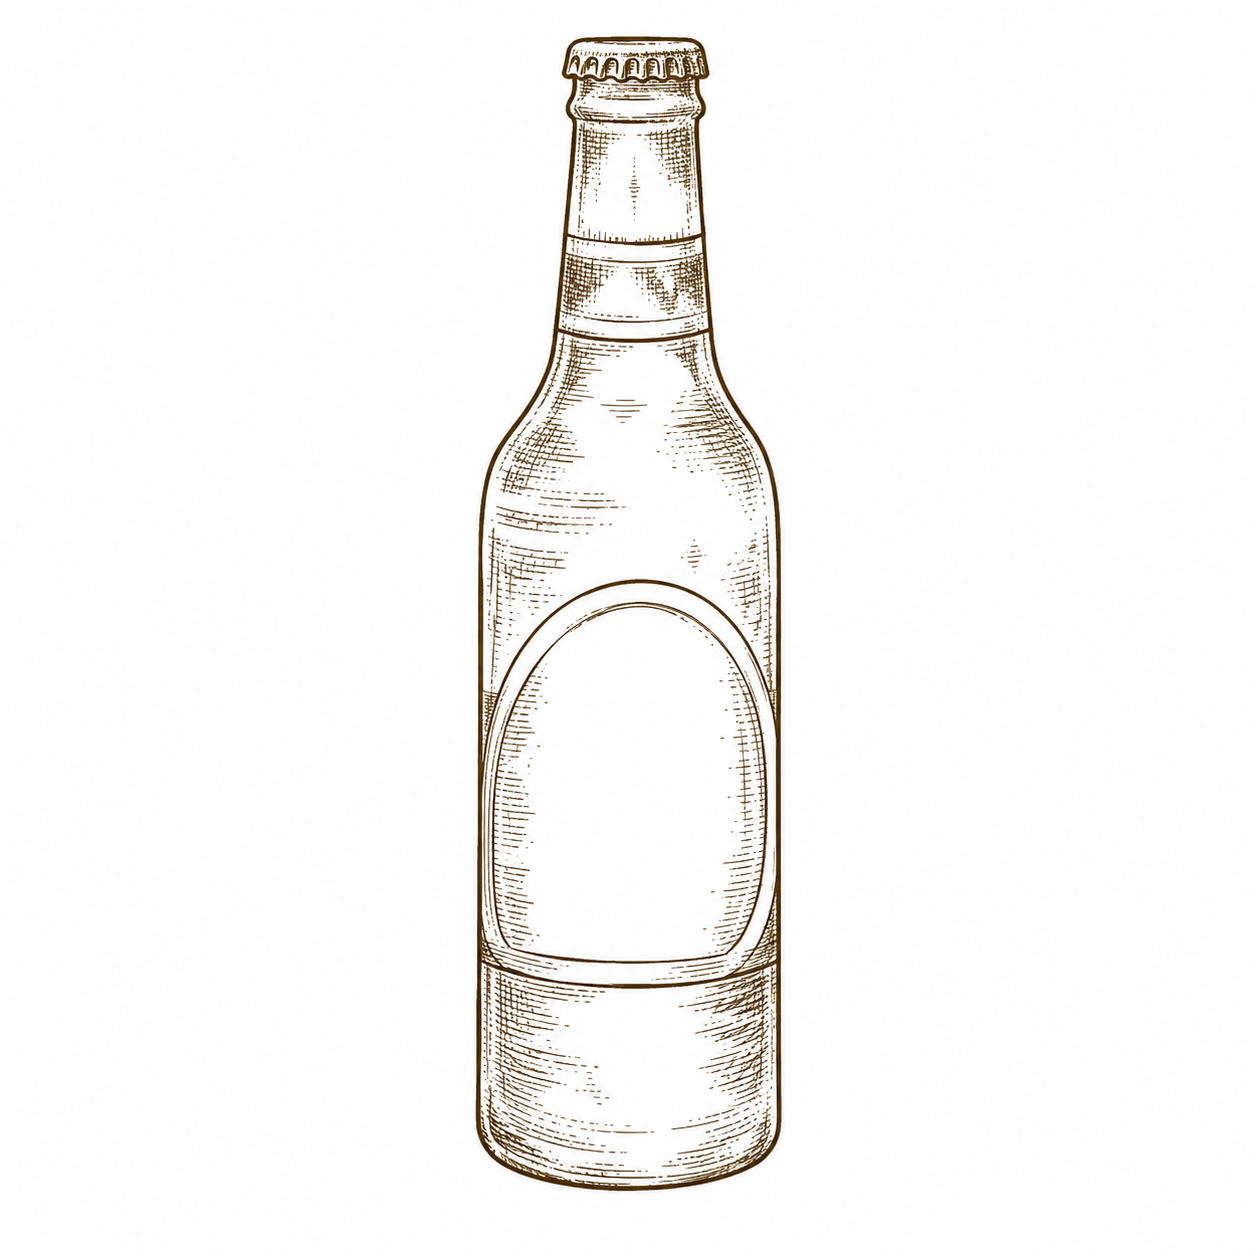
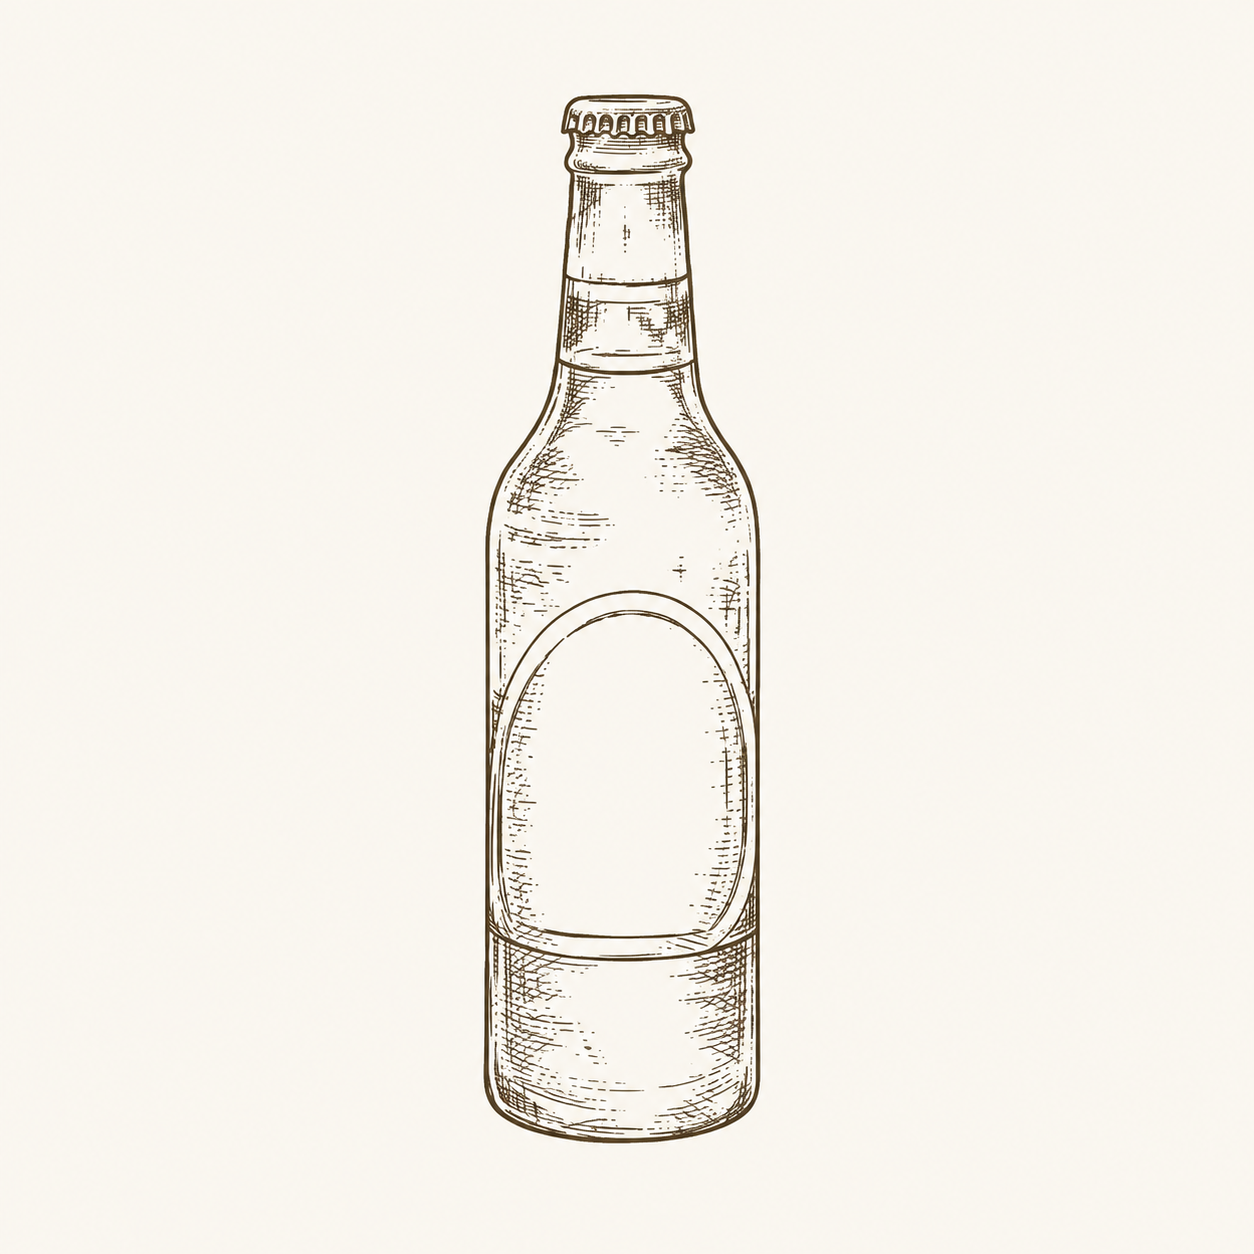
color de fondo de imagenes

Changed region(s): [[0.3732, 0.0311, 0.622, 0.9641]]

diff --git a/styles.css b/styles.css
@@ -1,5 +1,5 @@
 :root{
-  --cream:#FFFFFF;
+  --cream:#FBF8F3;
   --cream-2:#F3ECDF;
   --ink:#4A3826;
   --ink-70:rgba(74,56,38,0.68);
@@ -60,7 +60,37 @@ a{color:inherit; text-decoration:none;}
   height:auto;
   margin:0 auto 0.4rem;
   display:block;
+  position:relative;
+  z-index:2;
   mix-blend-mode:multiply;
+}
+.corner-art{
+  position:absolute;
+  top:-8px;
+  width:150px;
+  height:auto;
+  mix-blend-mode:multiply;
+  pointer-events:none;
+  z-index:1;
+}
+.corner-art.olivo{ left:-24px; }
+.corner-art.tomates{ right:-24px; }
+.tagline{
+  font-family:var(--mono);
+  font-size:0.62rem;
+  letter-spacing:0.22em;
+  text-transform:uppercase;
+  color:var(--olive);
+  margin:0.3rem 0 0;
+  display:flex;
+  align-items:center;
+  justify-content:center;
+  gap:0.5rem;
+}
+.tagline::before, .tagline::after{
+  content:"•";
+  color:var(--brick);
+  font-size:0.55rem;
 }
 .sr-only{
   position:absolute;
@@ -138,55 +168,59 @@ main{
   padding-bottom:45vh;
 }
 .category{
-  padding-top:2.4rem;
+  padding-top:2.8rem;
   scroll-margin-top:1.5rem;
-  border-top:1px solid var(--line);
+  position:relative;
 }
-.category:first-child{ border-top:none; padding-top:0; }
+.category:first-child{ padding-top:0; }
 
-.category-head{
-  margin-bottom:1.6rem;
-}
+/* El texto siempre va por encima del arte de fondo */
+.category-head, .dish, .subgroup-title{ position:relative; z-index:2; }
 
-/* Ilustraciones de fondo: grandes, detrás del contenido, dan ambiente
-   a toda la sección en vez de ser un ícono pegado al título (como en
-   el menú físico original).
-   - position:absolute + inset positivo (nunca negativo) => la imagen
-     siempre queda completamente dentro del área de la sección, nunca
-     se recorta.
-   - mix-blend-mode:multiply => el blanco de fondo de la imagen se
-     funde con el fondo de la página, sin recuadro ni cambio de color
-     visible entre ambos. */
-.category{ position:relative; }
-.category-head, .dish, .subgroup-title{ position:relative; z-index:1; }
-
+/* Ilustraciones de fondo temáticas: dan ambiente a la sección y llenan
+   el aire que queda al final de la lista de platillos, en vez de dejar
+   un vacío. Nunca se recortan (siempre caben dentro de la sección) y
+   el blanco de su fondo se funde con la página gracias a multiply. */
 .bg-art{
   position:absolute;
-  z-index:0;
-  opacity:0.85;
+  z-index:1;
+  opacity:0.9;
   mix-blend-mode:multiply;
   pointer-events:none;
   height:auto;
 }
 .bg-art.pizza-bg{
-  width:min(300px, 34%);
-  right:1rem;
-  bottom:1rem;
+  width:min(260px, 36%);
+  right:0.5rem;
+  bottom:0.5rem;
 }
 .bg-art.bottle-bg{
-  width:min(190px, 24%);
-  right:1rem;
-  top:1.5rem;
+  width:min(170px, 24%);
+  right:0.5rem;
+  top:0.5rem;
 }
 .bg-art.glasses-bg{
-  width:min(210px, 26%);
-  right:1rem;
-  bottom:1rem;
+  width:min(190px, 27%);
+  right:0.5rem;
+  bottom:0.5rem;
 }
 .bg-art.grapes-bg{
-  width:min(210px, 26%);
-  left:1rem;
-  bottom:1rem;
+  width:min(180px, 25%);
+  left:0.5rem;
+  bottom:0.5rem;
+}
+
+/* Cuando una sección lleva arte de fondo, el texto le hace espacio
+   (columna más angosta) para que no se sienta apretado contra la
+   ilustración: esto es lo que genera el "aire" entre texto e imagen. */
+@media (min-width:821px){
+  .category.has-side-art .dish{ max-width:62%; }
+  #vino.has-side-art .dish{ margin:0 auto; }
+}
+
+.category-head{
+  text-align:center;
+  margin-bottom:1.8rem;
 }
 
 .eyebrow{
@@ -201,8 +235,32 @@ main{
 .category-title{
   font-family:var(--serif);
   font-weight:600;
-  font-size:clamp(1.5rem, 3vw, 2rem);
-  margin:0;
+  font-size:clamp(1.6rem, 5vw, 2.1rem);
+  margin:0 0 1rem;
+}
+
+/* Divisor ornamental centrado, como en el menú de referencia: dos
+   líneas punteadas cortas flanqueando el sprig de romero. */
+.divider{
+  display:flex;
+  align-items:center;
+  justify-content:center;
+  gap:0.7rem;
+  width:100%;
+  max-width:260px;
+  margin:0 auto;
+}
+.divider::before, .divider::after{
+  content:"";
+  flex:1;
+  height:0;
+  border-top:1px dotted var(--line);
+}
+.divider img{
+  width:64px;
+  height:auto;
+  flex-shrink:0;
+  mix-blend-mode:multiply;
 }
 
 .subgroup-title{
@@ -289,13 +347,15 @@ footer{
   .menu-nav button{ padding:0.3rem 0; flex:0 0 auto; }
   .menu-nav button::before{ left:50%; top:auto; bottom:-0.35rem; transform:translateX(-50%) scale(0); }
   .menu-nav button.active::before{ transform:translateX(-50%) scale(1); }
-  .art-frame{ width:68px; height:68px; padding:0.45rem; }
   .logo-img{ width:120px; }
-  .bg-art{ opacity:0.45; }
-  .bg-art.pizza-bg{ width:36%; right:0.5rem; bottom:0.5rem; }
-  .bg-art.bottle-bg{ width:28%; right:0.5rem; top:0.8rem; }
-  .bg-art.glasses-bg{ width:30%; right:0.5rem; bottom:0.5rem; }
-  .bg-art.grapes-bg{ width:30%; left:0.5rem; bottom:0.5rem; }
+  .corner-art{ width:108px; top:-4px; }
+  .corner-art.olivo{ left:-18px; }
+  .corner-art.tomates{ right:-18px; }
+  .bg-art{ opacity:0.5; }
+  .bg-art.pizza-bg{ width:34%; }
+  .bg-art.bottle-bg{ width:26%; }
+  .bg-art.glasses-bg{ width:28%; }
+  .bg-art.grapes-bg{ width:26%; }
 
   /* La barra de categorías queda fija (sticky) arriba en móvil, así que
      cada sección necesita más aire arriba para no quedar tapada al saltar. */

diff --git a/index.html b/index.html
@@ -12,8 +12,11 @@
 <body>
 
 <header class="site-header">
+  <img class="corner-art olivo" src="src/OLIVO.png" alt="">
+  <img class="corner-art tomates" src="src/TOMATES.png" alt="">
   <img class="logo-img" src="src/LOGO.png" alt="Casa IGO">
   <h1 class="sr-only">Casa IGO Pizzería</h1>
+  <p class="tagline">Cocina artesanal</p>
 </header>
 
 <div class="layout">
@@ -33,6 +36,7 @@
       <div class="category-head">
         <span class="eyebrow">Para empezar</span>
         <h2 class="category-title">Entradas</h2>
+        <div class="divider" aria-hidden="true"><img src="src/ROMEROS.png" alt=""></div>
       </div>
 
       <div class="dish"><span class="dish-name">Alita Trufada</span><span class="dish-price">$220</span>
@@ -58,6 +62,7 @@
       <div class="category-head">
         <span class="eyebrow">Hecha en casa</span>
         <h2 class="category-title">Pastas</h2>
+        <div class="divider" aria-hidden="true"><img src="src/ROMEROS.png" alt=""></div>
       </div>
 
       <div class="dish"><span class="dish-name">Lasaña de Oso</span><span class="dish-price">$295</span>
@@ -80,6 +85,7 @@
       <div class="category-head">
         <span class="eyebrow">Del horno</span>
         <h2 class="category-title">Platos Fuertes</h2>
+        <div class="divider" aria-hidden="true"><img src="src/ROMEROS.png" alt=""></div>
       </div>
 
       <div class="dish"><span class="dish-name">Filete IGO</span><span class="dish-price">$335</span>
@@ -92,11 +98,12 @@
         <p class="dish-desc">Milanesa de pollo empanizada acompañada de pasta fettuccine en salsa roja cremosa, parmesano y cebollín.</p></div>
     </section>
 
-    <section class="category" id="pizzas">
+    <section class="category has-side-art" id="pizzas">
       <img class="bg-art pizza-bg" src="src/PIZZA.png" alt="">
       <div class="category-head">
         <span class="eyebrow">A la leña</span>
         <h2 class="category-title">Pizzas</h2>
+        <div class="divider" aria-hidden="true"><img src="src/ROMEROS.png" alt=""></div>
       </div>
 
       <div class="dish"><span class="dish-name">Sabina</span><span class="dish-price">$305</span>
@@ -131,6 +138,7 @@
       <div class="category-head">
         <span class="eyebrow">Para cerrar</span>
         <h2 class="category-title">Postres</h2>
+        <div class="divider" aria-hidden="true"><img src="src/ROMEROS.png" alt=""></div>
       </div>
 
       <div class="dish"><span class="dish-name">Pan de Elote</span><span class="dish-price">$135</span>
@@ -149,11 +157,12 @@
         <p class="dish-desc">Gelatto de queso acompañado de espresso de la casa.</p></div>
     </section>
 
-    <section class="category" id="bebidas">
+    <section class="category has-side-art" id="bebidas">
       <img class="bg-art bottle-bg" src="src/BOTELLA.png" alt="">
       <div class="category-head">
         <span class="eyebrow">Para acompañar</span>
         <h2 class="category-title">Bebidas</h2>
+        <div class="divider" aria-hidden="true"><img src="src/ROMEROS.png" alt=""></div>
       </div>
 
       <h3 class="subgroup-title">Refrescos</h3>
@@ -188,12 +197,13 @@
         <p class="dish-desc">Mixeado de vino tinto, jugo de arándano, soda artesanal de manzana, uva y manzana verde.</p></div>
     </section>
 
-    <section class="category" id="vino">
+    <section class="category has-side-art" id="vino">
       <img class="bg-art glasses-bg" src="src/COPAS.png" alt="">
       <img class="bg-art grapes-bg" src="src/UVA.png" alt="">
       <div class="category-head">
         <span class="eyebrow">La cava</span>
         <h2 class="category-title">Vino</h2>
+        <div class="divider" aria-hidden="true"><img src="src/ROMEROS.png" alt=""></div>
       </div>
 
       <div class="dish"><span class="dish-name">Porta 6</span><span class="dish-price">$650 bot. / $130 copa</span>
